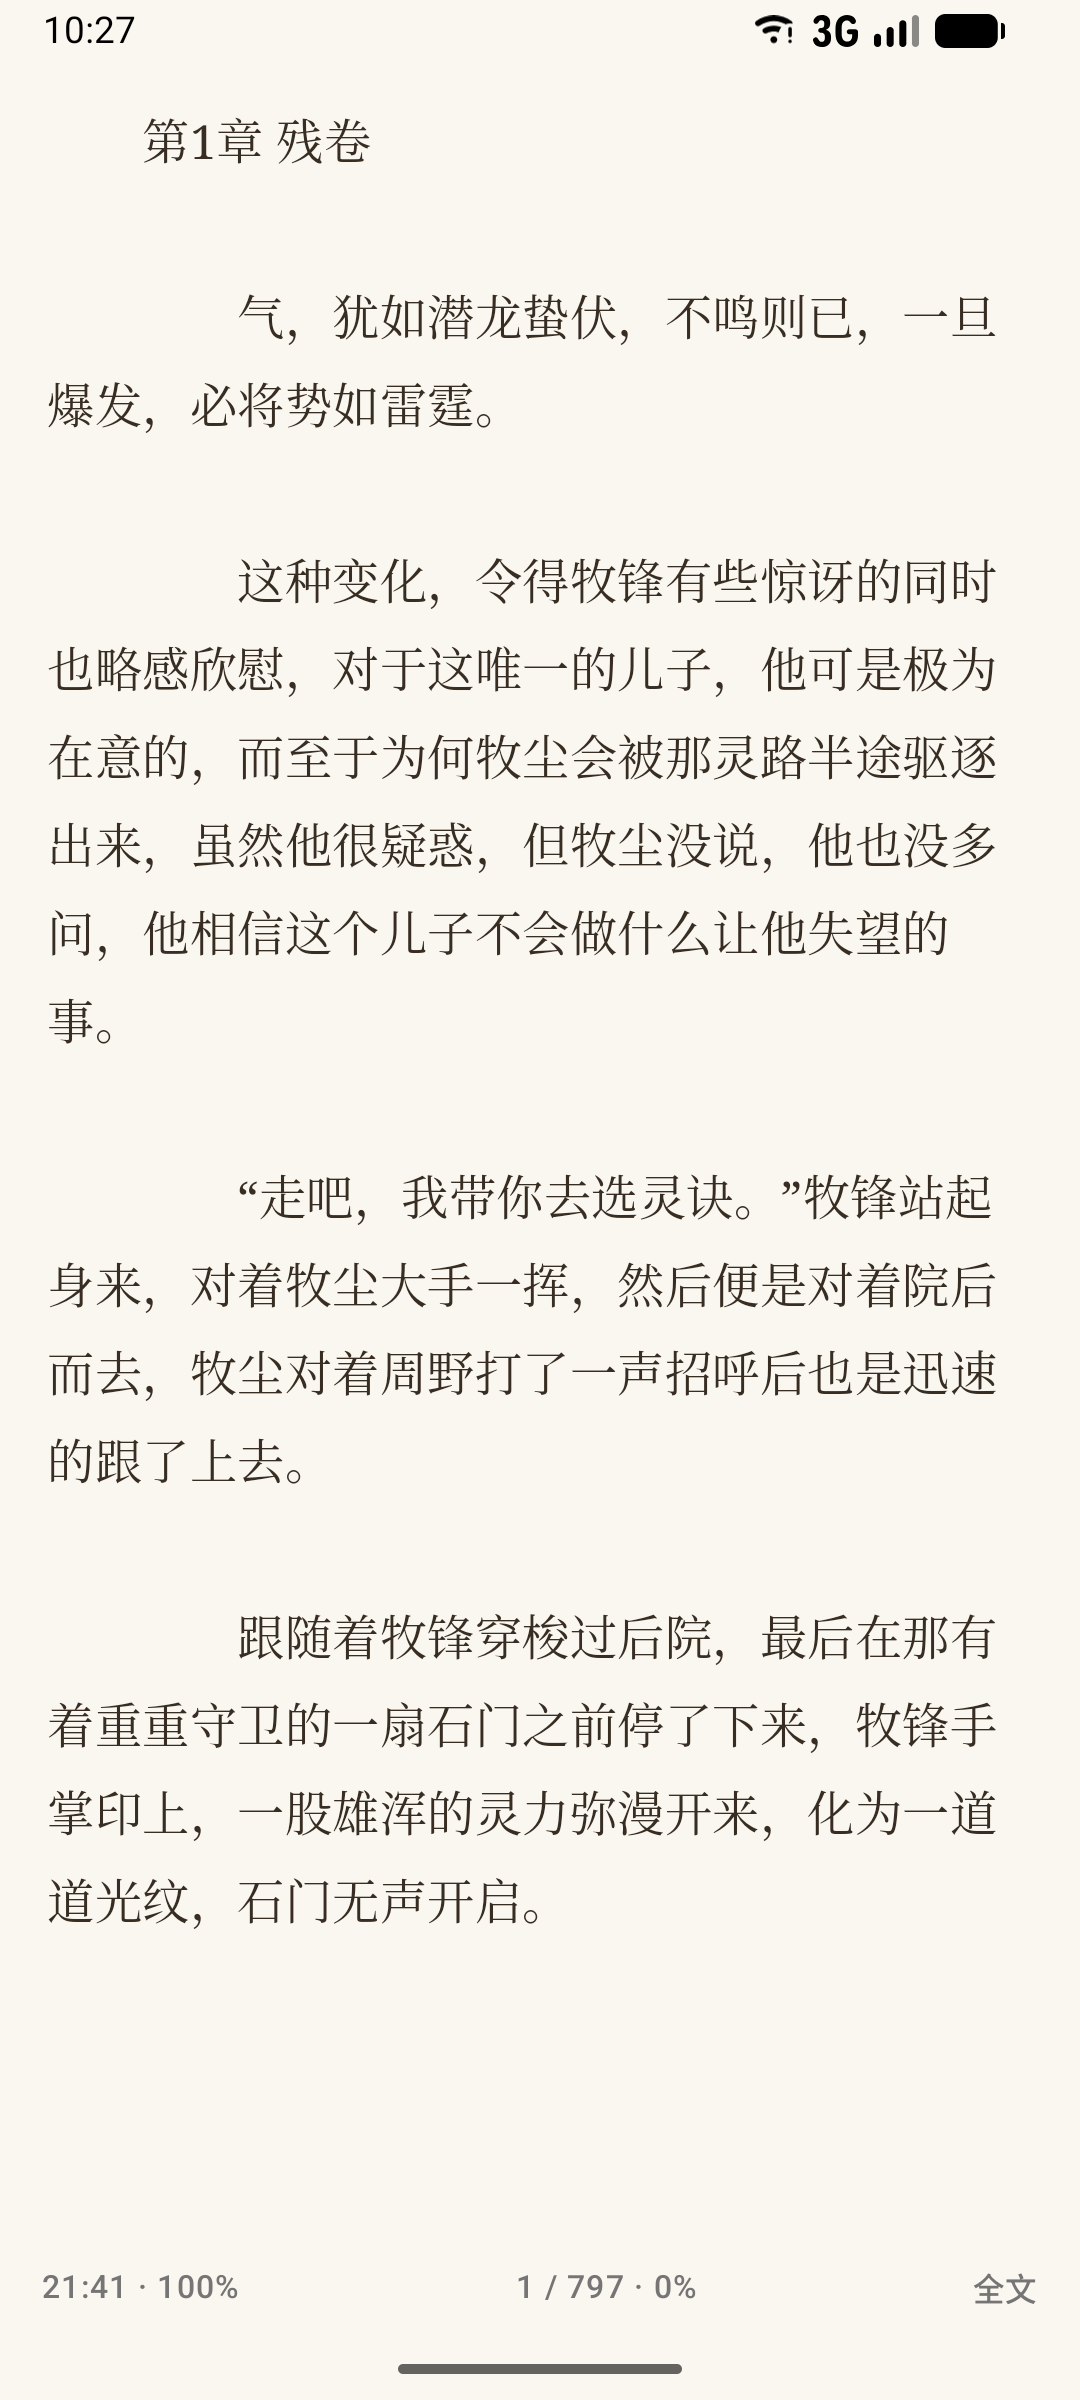
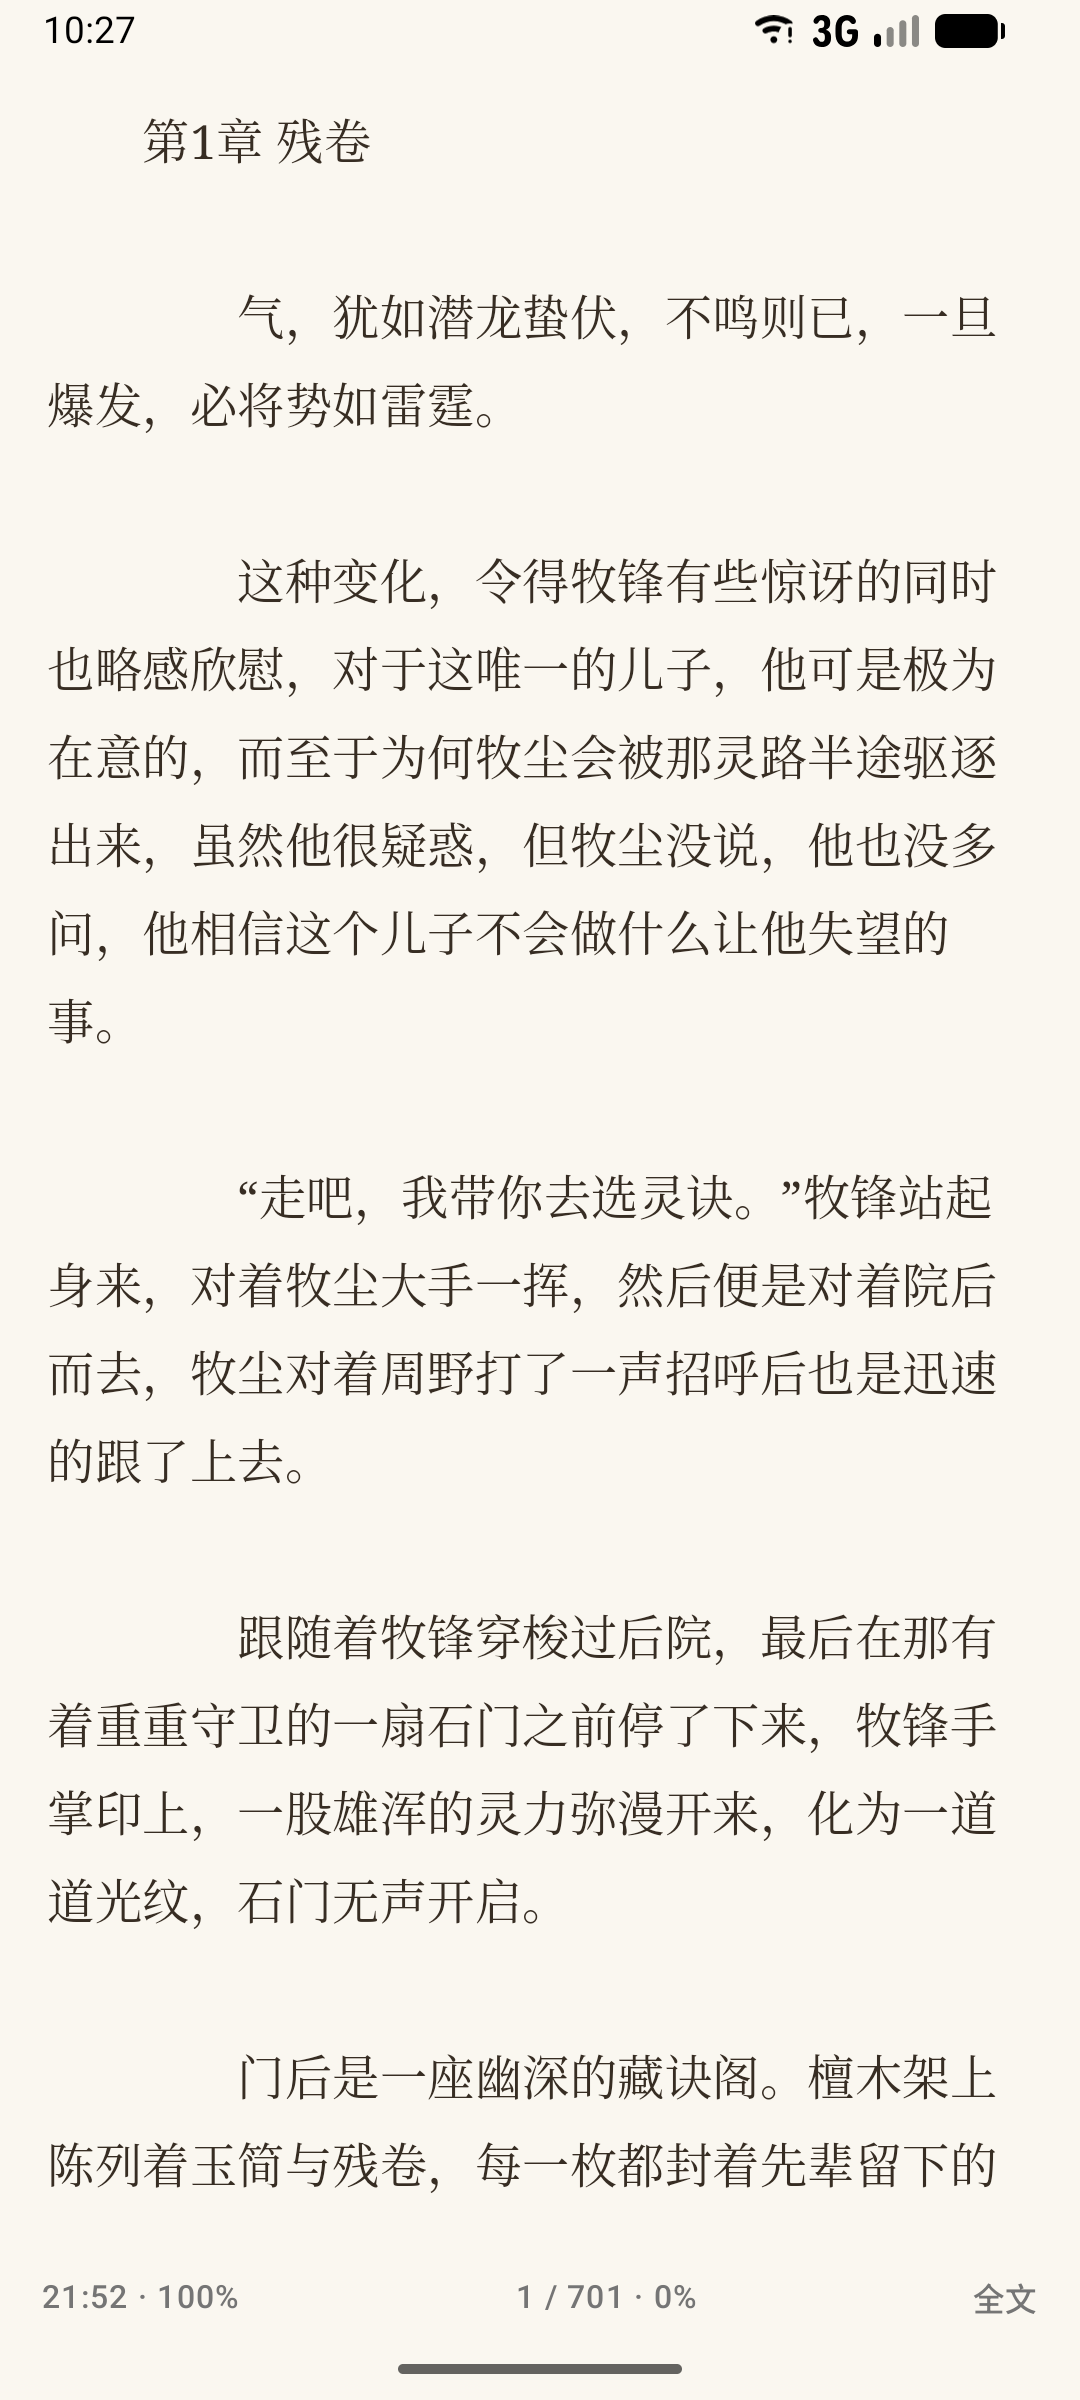
Fill the reader page down to the footer strip
Drop the unused full-line reserve, shrink the body/footer gap, and
pack until the last line sits just above the clock / page status.

diff --git a/app/src/test/java/app/maoyankanshu/novel/selfuse/ui/reader/PageIndexTest.kt b/app/src/test/java/app/maoyankanshu/novel/selfuse/ui/reader/PageIndexTest.kt
@@ -190,9 +190,9 @@ class PageIndexTest {
         val font = 54f
         val lineH = font * 1.5f
         val cols = ((1080 / font) * 0.92f).toInt()
-        val lines = ((2000 / lineH).toInt() - 1).coerceAtLeast(1)
+        val lines = (2000 / lineH).toInt().coerceAtLeast(1)
         val theoretical = cols * lines
-        assertTrue(count < theoretical)
+        assertTrue(count <= theoretical)
         assertTrue(count <= (theoretical * PageIndex.APPROX_FILL_FACTOR).toInt() + 1)
     }
 
@@ -212,8 +212,8 @@ class PageIndexTest {
 
     @Test
     fun charsPerPageFromMeasuredLines_hardWrappedFillsViewport() {
-        // 20 hard-wrapped lines × 30px; viewport 400 with 1-line safety → 370.
-        // Lines 0–11 fit (bottom 360 ≤ 370); line 12 (390) does not.
+        // 20 hard-wrapped lines × 30px; viewport 400 with 0.2-line safety → 394.
+        // Lines 0–12 fit (bottom 390 ≤ 394); line 13 (420) does not.
         val n = 20
         val tops = FloatArray(n) { it * 30f }
         val bottoms = FloatArray(n) { (it + 1) * 30f }
@@ -225,7 +225,7 @@ class PageIndexTest {
             sampleLength = 440,
             viewportHeightPx = 400f,
         )
-        assertEquals(12 * 22, fitted)
+        assertEquals(13 * 22, fitted)
         assertTrue(fitted > 200)
     }
 
@@ -261,9 +261,12 @@ class PageIndexTest {
         )
         assertTrue(grown > 300)
         assertTrue(grown <= PageIndex.APPROX_CHARS_PER_PAGE_MAX)
+        assertTrue(
+            PageIndex.expandApproxCharsPerPageAfterUnderfill(300, 900f, 1000f) > 300,
+        )
         assertEquals(
             300,
-            PageIndex.expandApproxCharsPerPageAfterUnderfill(300, 900f, 1000f),
+            PageIndex.expandApproxCharsPerPageAfterUnderfill(300, 980f, 1000f),
         )
         assertEquals(
             300,
@@ -279,13 +282,13 @@ class PageIndexTest {
     fun effectivePageViewportHeight_reservesBottomSafety() {
         val effective = PageIndex.effectivePageViewportHeight(1000f, typicalLineHeightPx = 40f)
         assertTrue(effective < 1000f)
-        // Full line reserved (1.0 × line height) so last line is not half-clipped.
+        // Thin descender pad only — a full empty line left a gap above the footer.
         assertEquals(
             1000f - (40f * PageIndex.PAGE_BOTTOM_SAFETY_LINE_FRACTION),
             effective,
             0.01f,
         )
-        assertEquals(1.0f, PageIndex.PAGE_BOTTOM_SAFETY_LINE_FRACTION, 0.001f)
+        assertEquals(0.2f, PageIndex.PAGE_BOTTOM_SAFETY_LINE_FRACTION, 0.001f)
         val noLine = PageIndex.effectivePageViewportHeight(500f, 0f)
         assertTrue(noLine < 500f)
         assertTrue(noLine >= 500f * 0.5f)
@@ -351,23 +354,22 @@ class PageIndexTest {
 
     @Test
     fun pageStartOffsets_multiPagePacking() {
-        // 5 lines × 30px; viewport 100 with full-line safety (30) → effective 70
-        // line0+1: bottom 60 ≤ 70 → same page
-        // line2: bottom 90 > 70 → new page at char 20
-        // line3: 120-60=60 ≤ 70
-        // line4: 150-60=90 > 70 → new page at char 40
+        // 5 lines × 30px; viewport 100 with 0.2-line safety (6) → effective 94
+        // line0+1+2: bottom 90 ≤ 94 → same page
+        // line3: bottom 120 > 94 → new page at char 30
+        // line4: 150-90=60 ≤ 94
         val tops = floatArrayOf(0f, 30f, 60f, 90f, 120f)
         val bottoms = floatArrayOf(30f, 60f, 90f, 120f, 150f)
         val chars = intArrayOf(0, 10, 20, 30, 40)
         val starts = PageIndex.pageStartOffsets(tops, bottoms, chars, viewportHeightPx = 100f)
-        assertEquals(listOf(0, 20, 40), starts)
-        assertEquals(3, starts.size)
+        assertEquals(listOf(0, 30), starts)
+        assertEquals(2, starts.size)
     }
 
     @Test
     fun pageStartOffsets_doesNotPackLineThatTouchesViewportEdge() {
-        // Full-line safety: line height 50, viewport 100 → effective 50
-        // line0: 0-50 fits alone; line1: 100-0=100 > 50 → new page
+        // 0.2-line safety: line height 50, viewport 100 → effective 90
+        // line0: 0-50 fits; line1: 100-0=100 > 90 → new page
         val tops = floatArrayOf(0f, 50f)
         val bottoms = floatArrayOf(50f, 100f)
         val chars = intArrayOf(0, 20)
@@ -387,8 +389,8 @@ class PageIndexTest {
 
     @Test
     fun pageStartOffsets_thenProgressMapsAcrossPages() {
-        // viewport 120, line height 40 → effective 80 (full line reserved)
-        // line0+1: 80 ≤ 80; line2: 120 > 80 → page at 16; line3: 160-80=80; line4: 200-80=120 > 80 → page at 32
+        // viewport 120, line height 40 → effective 112 (0.2-line safety)
+        // line0+1: 80 ≤ 112; line2: 120 > 112 → page at 16; line3: 160-80=80; line4: 200-80=120 > 112 → page at 32
         val tops = floatArrayOf(0f, 40f, 80f, 120f, 160f)
         val bottoms = floatArrayOf(40f, 80f, 120f, 160f, 200f)
         val chars = intArrayOf(0, 8, 16, 24, 32)

diff --git a/app/src/main/java/app/maoyankanshu/novel/selfuse/ui/reader/PageIndex.kt b/app/src/main/java/app/maoyankanshu/novel/selfuse/ui/reader/PageIndex.kt
@@ -259,11 +259,10 @@ object PageIndex {
      * Below 1.0 so Chinese full-width + letterSpacing rarely overfill the screen
      * (overfill clips the last line in a non-scrolling page Text).
      *
-     * 0.64 (and the older two-line reserve) left roughly half the page empty on
-     * tall phones. Overflow / underfill feedback now corrects residual error, so
-     * the seed can sit close to a full page.
+     * 0.64 left half the page empty. Seed close to a full page; overflow / underfill
+     * feedback corrects residual wrap error so the last line sits above the footer.
      */
-    const val APPROX_FILL_FACTOR: Float = 0.90f
+    const val APPROX_FILL_FACTOR: Float = 0.97f
 
     /** One overflow feedback step removes roughly one typical CJK line worth of capacity. */
     const val APPROX_OVERFLOW_SHRINK_FACTOR: Float = 0.94f
@@ -272,10 +271,10 @@ object PageIndex {
      * Grow toward this fraction of the painted viewport when a full-capacity
      * slice left the lower half of the page empty (hard-wrapped TXT, tall screens).
      */
-    const val APPROX_UNDERFILL_TARGET: Float = 0.92f
+    const val APPROX_UNDERFILL_TARGET: Float = 0.99f
 
     /** Do not grow when the painted page already uses at least this much height. */
-    const val APPROX_UNDERFILL_TRIGGER: Float = 0.84f
+    const val APPROX_UNDERFILL_TRIGGER: Float = 0.96f
 
     /** Hard-wrapped or last-page slices below this ratio are left alone. */
     const val APPROX_UNDERFILL_MIN_USED: Float = 0.12f
@@ -318,13 +317,13 @@ object PageIndex {
 
     /**
      * Reserve this many line-heights at the bottom of the exact-measure viewport.
-     * 1.0 = leave a full empty line so platform font padding / subpixel paint never
-     * clips the last glyph (0.35 was still cutting half a line on some devices).
+     * A thin descender / subpixel pad only — a full empty line left a visible gap
+     * above the footer. Clip + overflow feedback catch the rare last-glyph cut.
      */
-    const val PAGE_BOTTOM_SAFETY_LINE_FRACTION: Float = 1.0f
+    const val PAGE_BOTTOM_SAFETY_LINE_FRACTION: Float = 0.2f
 
     /** Minimum absolute bottom safety in px when line height is unknown. */
-    const val PAGE_BOTTOM_SAFETY_MIN_PX: Float = 12f
+    const val PAGE_BOTTOM_SAFETY_MIN_PX: Float = 6f
 
     /**
      * Whether a page whose body starts at [pageStartOffset] should apply paragraph
@@ -350,7 +349,8 @@ object PageIndex {
      *
      * @param viewportHeightPx measured body height (already after margins)
      * @param typicalLineHeightPx optional average line height; when >0 reserves a
-     *   full line (see [PAGE_BOTTOM_SAFETY_LINE_FRACTION]), otherwise a % of viewport.
+     *   thin descender pad (see [PAGE_BOTTOM_SAFETY_LINE_FRACTION]), otherwise a
+     *   small absolute inset.
      */
     fun effectivePageViewportHeight(
         viewportHeightPx: Float,
@@ -361,7 +361,7 @@ object PageIndex {
             (typicalLineHeightPx * PAGE_BOTTOM_SAFETY_LINE_FRACTION)
                 .coerceAtLeast(PAGE_BOTTOM_SAFETY_MIN_PX)
         } else {
-            (vh * 0.06f).coerceAtLeast(PAGE_BOTTOM_SAFETY_MIN_PX)
+            PAGE_BOTTOM_SAFETY_MIN_PX
         }
         // Never reserve more than ~40% of the viewport (tiny screens / huge fonts).
         val capped = reserve.coerceAtMost(vh * 0.4f)
@@ -379,10 +379,8 @@ object PageIndex {
         val lineHeight = (font * lineHeightMultiplier.coerceAtLeast(1f)).coerceAtLeast(1f)
         // Full-width CJK ≈ 1em; letterSpacing makes real columns slightly fewer.
         val columns = ((widthPx.coerceAtLeast(1) / font) * 0.92f).toInt().coerceAtLeast(1)
-        // Leave one line empty so wrap / indent / font-padding variance can still fit.
         val rawLines = (heightPx.coerceAtLeast(1) / lineHeight).toInt().coerceAtLeast(1)
-        val lines = (rawLines - 1).coerceAtLeast(1)
-        return (columns * lines * APPROX_FILL_FACTOR).roundToInt()
+        return (columns * rawLines * APPROX_FILL_FACTOR).roundToInt()
             .coerceIn(MIN_APPROX_CHARS_PER_PAGE, APPROX_CHARS_PER_PAGE_MAX)
     }
 

diff --git a/app/src/main/java/app/maoyankanshu/novel/selfuse/ui/reader/ReaderScreen.kt b/app/src/main/java/app/maoyankanshu/novel/selfuse/ui/reader/ReaderScreen.kt
@@ -1058,22 +1058,24 @@ fun ReaderScreen(
                 .fillMaxSize()
                 .windowInsetsPadding(WindowInsets.safeDrawing),
         ) {
-            // Body + gap + footer: reserve gap so time/page never sits on the last line.
+            // Body + tight gap + footer: only the status strip is reserved at the bottom.
             val bodyFooterGap = PageLayout.BODY_FOOTER_GAP_DP.dp
             BoxWithConstraints(
                 modifier = Modifier
                     .weight(1f)
                     .fillMaxWidth()
-                    // Keep a clear band above the footer strip (not flush against page %).
                     .padding(bottom = bodyFooterGap),
             ) {
                 // Kindle-style adjustable body margins (narrow / standard / wide).
                 val padH = PageLayout.horizontalPadDp(marginStep).dp
                 val padV = PageLayout.verticalPadDp(marginStep).dp
+                val padBottom = PageLayout.BODY_BOTTOM_PAD_DP.dp
                 val pageMaxHeight = maxHeight
                 val widthPx = with(density) { (maxWidth - padH * 2).toPx().toInt().coerceAtLeast(1) }
-                // maxHeight already excludes footer gap; still subtract body pad for measure.
-                val heightPx = with(density) { (pageMaxHeight - padV * 2).toPx().toInt().coerceAtLeast(1) }
+                // Top margin stays user-controlled; bottom is a thin inset above the footer.
+                val heightPx = with(density) {
+                    (pageMaxHeight - padV - padBottom).toPx().toInt().coerceAtLeast(1)
+                }
                 // Publish measured viewport for page breaking (side-effect free after first frame).
                 LaunchedEffect(widthPx, heightPx, marginStep) {
                     contentWidthPx = widthPx
@@ -1256,7 +1258,7 @@ fun ReaderScreen(
                             .align(Alignment.TopStart)
                             .fillMaxWidth()
                             .heightIn(max = pageMaxHeight)
-                            .padding(horizontal = padH, vertical = padV)
+                            .padding(start = padH, top = padV, end = padH, bottom = padBottom)
                         val textModifier = Modifier
                             .fillMaxWidth()
                             .pointerInput(ttsState, pageStartOffset, pageBody) {
@@ -1330,7 +1332,7 @@ fun ReaderScreen(
                 Row(
                     modifier = Modifier
                         .fillMaxWidth()
-                        .padding(horizontal = 16.dp, vertical = 10.dp)
+                        .padding(horizontal = 16.dp, vertical = 6.dp)
                         .semantics {
                             contentDescription = "$pageLocationCd，$progressCd，$batteryCd"
                         },

diff --git a/app/src/test/java/app/maoyankanshu/novel/selfuse/ui/reader/PageLayoutTest.kt b/app/src/test/java/app/maoyankanshu/novel/selfuse/ui/reader/PageLayoutTest.kt
@@ -49,10 +49,10 @@ class PageLayoutTest {
     // ── Footer gap (body vs time/page strip) ───────────────────────────────
 
     @Test
-    fun bodyFooterGap_isComfortableNotTight() {
-        // Gap must exist and stay in a human-friendly band (not flush, not huge).
-        assertTrue(PageLayout.BODY_FOOTER_GAP_DP >= 10)
-        assertTrue(PageLayout.BODY_FOOTER_GAP_DP <= 24)
+    fun bodyFooterGap_isTightAboveStatusStrip() {
+        // Small breathing room only — the footer is the reserved bottom band.
+        assertTrue(PageLayout.BODY_FOOTER_GAP_DP in 2..8)
+        assertTrue(PageLayout.BODY_BOTTOM_PAD_DP in 2..8)
         assertTrue(PageLayout.FOOTER_BAR_DP >= 28)
         assertTrue(PageLayout.FOOTER_BAR_DP <= 48)
     }

diff --git a/app/src/main/java/app/maoyankanshu/novel/selfuse/ui/reader/PageLayout.kt b/app/src/main/java/app/maoyankanshu/novel/selfuse/ui/reader/PageLayout.kt
@@ -20,9 +20,15 @@ object PageLayout {
 
     /**
      * Extra space (dp) between the last line of body text and the time / page footer.
-     * Keeps status labels from sitting on top of the reading surface — not flush-tight.
+     * Tight on purpose: the footer is the only reserved band at the bottom.
      */
-    const val BODY_FOOTER_GAP_DP: Int = 14
+    const val BODY_FOOTER_GAP_DP: Int = 4
+
+    /**
+     * Bottom inset (dp) inside the reading body. Smaller than [verticalPadDp] so
+     * the last line sits just above the footer instead of repeating the top margin.
+     */
+    const val BODY_BOTTOM_PAD_DP: Int = 4
 
     /**
      * Approximate footer bar height (dp) reserved in the reading column so pagination
